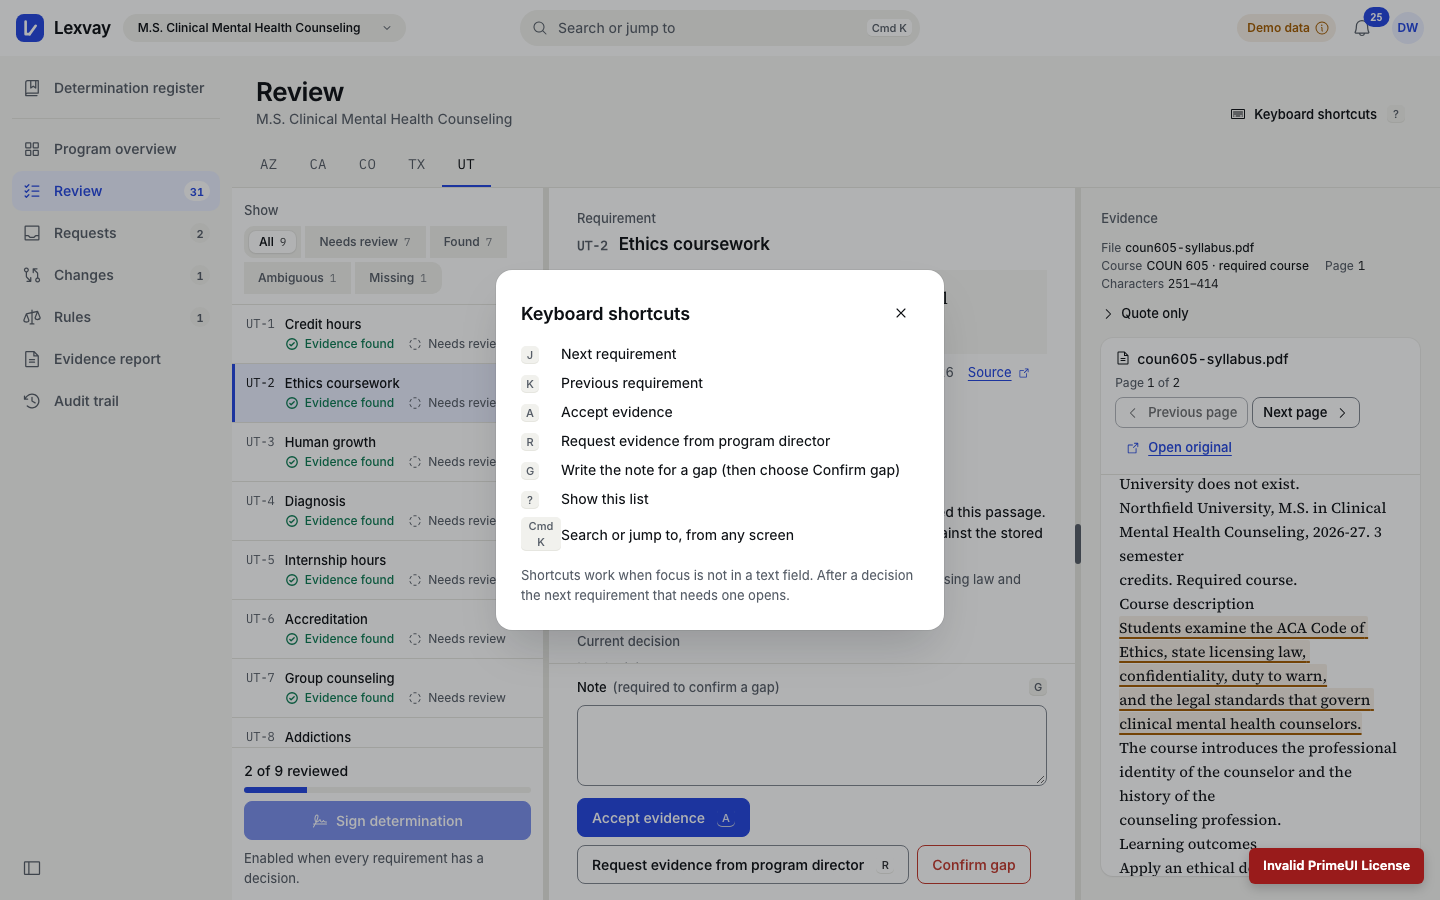
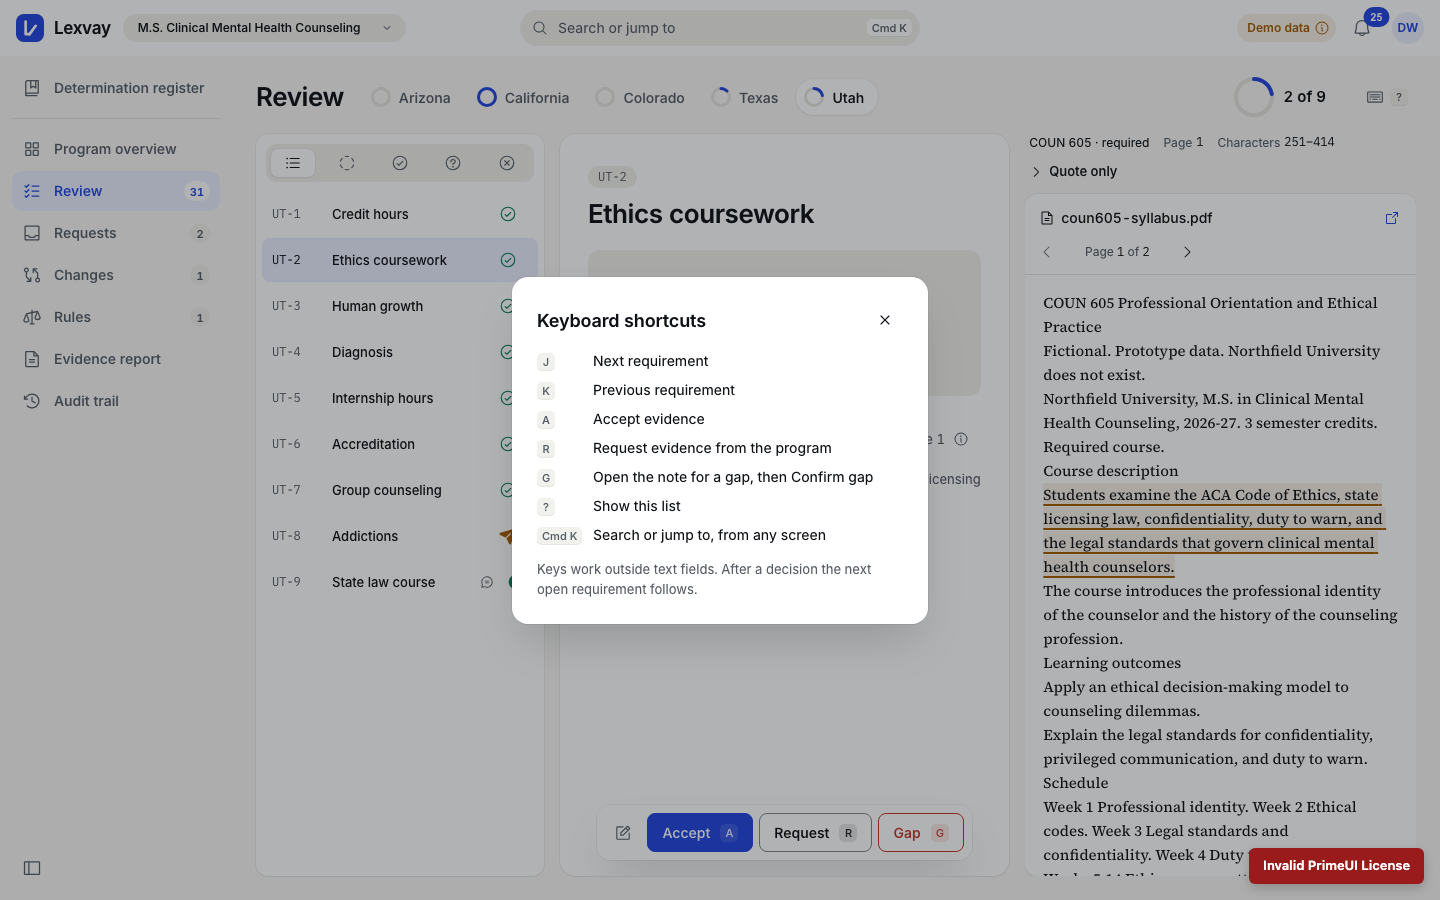
UI2-2 decisions, progress and screenshots; evidence request suite waits for Review before returning to the inbox

diff --git a/frontend/e2e/evidence-requests.spec.ts b/frontend/e2e/evidence-requests.spec.ts
@@ -202,7 +202,10 @@ test('at 400 px: the inbox, the drawer, a blocked request and the provided evide
     const rows = (await response.json()) as { mappingId: string; stale: boolean }[];
     await route.fulfill({ response, json: rows.map((r) => (r.mappingId === ambiguous.id ? { ...r, stale: true } : r)) });
   });
+  // Leave the inbox and come back, so it reads the rows again. Wait for Review to be on screen first: a click during
+  // the route's view transition supersedes the first navigation, the inbox never leaves and never reads again.
   await nav(page, 'Review').click();
+  await expect(page.getByTestId('requirement-heading')).toBeVisible();
   await nav(page, 'Evidence requests').click();
   await expect(row).toContainText('Blocked');
   await expect(row).toContainText('This requirement is waiting for a re-run after a change; answer it after the re-run');

diff --git a/docs/decisions/UI2-2.md b/docs/decisions/UI2-2.md
@@ -1,0 +1,93 @@
+# UI2-2 — Review and signing in design v2 (D-330 to D-339)
+
+**D-330 — Review is split into parts, each with its own styles.** The screen (`review.ts`) keeps the state, the data and
+the keys; `RequirementList` (the 288 px rail), `RequirementCard` (the hero), `EvidencePane` (the DocumentViewer and the
+provided passages) and `SignDialog` live beside it in `screens/review/`, and `DecisionBar` is a shared component in
+`ui/decision-bar/` as DESIGN.md lists it. One component with every pane's styles would cross the 10 kB component style
+budget (D-083); each part now stays well under it. The parts have no `viewProviders`, so `REVIEW_ICONS` names their
+icons; `DecisionBar` registers its own (`DECISION_BAR_ICONS`, a unit in `icons.spec.ts`) and its Textarea and Message
+token sets. Splitter and ProgressBar are no longer rendered by Review and left `REVIEW_TOKENS`. Rejected: keeping the
+Splitter between the centre and the evidence (its gutter is the hairline v2 removes, and the rail is a fixed 288 px).
+
+**D-331 — Header: pills as tabs, the active pill as the shared element.** The states stay a PrimeNG `Tabs` list (arrow,
+Home and End keys, `selectOnFocus`), restyled as pills: a 20 px ProgressRing (decided of total, from the assessment's
+per-state summary, `stateProgress`) and the full name. The tab's accessible name is the full name ("California"); its
+ring is hidden from assistive technology and its numbers are the tab's description ("6 of 8 reviewed") through
+`aria-describedby` on hidden text outside the tab, so the name stays the name. The active pill carries
+`view-transition-name: state-<code>`, the target UI2-1's map tile morphs into. The header progress is a 40 px ring
+(hidden) beside "6 of 8" with " reviewed" for screen readers. The pills scroll sideways when they do not fit
+(PrimeNG's scrollable list without navigator buttons). The page title stays "Review": the shell focuses `main h1` after
+navigation, and the program name left the header (the top bar's pill shows it).
+
+**D-332 — "Sign <state>" exists only once every requirement is decided.** Before that the header shows progress and
+nothing to sign (v1 showed a disabled button with a help line). The button enters with one pulse (scale and opacity,
+720 ms, `animate.enter`), then stays still. A reviewer who is not a signer sees it disabled with an InfoTip "Only a
+signer can sign." A signed state shows its Seal (40 px, named in one sentence) with "Signed" and the outcome; a reopened
+determination shows a "Reopened" chip with an InfoTip. Under 640 px the action takes its own row under the pills.
+
+**D-333 — The DecisionBar and the note.** Accept (A), Request (R) and Gap (G) on the raised, blurred bar, sticky at the
+foot of the centre pane (under 1024 px it is the last item of the one-column layout, so it stays at the foot of the
+window while the list, the requirement or the evidence is in view). Visible words follow the spec; the accessible names
+of Accept and Request stay full ("Accept evidence", "Request evidence") and contain the visible word. Gap, its key and a
+note button open the note field in place; with the note open the third action reads "Confirm gap", and Accept and
+Request send the note too. The note button ("Add note") exists because a request's note is what the program reads (F4)
+and an accept after provided evidence asks which evidence was relied on (D-267): the spec opens the field only for
+Gap, which would have left requests without a note. Where a person answered an evidence request the note opens by
+itself. Escape in an empty note closes it and returns focus to Gap; a note with words stays open. A gap without a note
+opens the field and says why, as before. Under 640 px the key hints are hidden (a phone has no keys) and the actions
+keep one row.
+
+**D-334 — The decision sequence, never in the way.** After the server records a decision: the decided row's StatusIcon
+turns filled and pops in on the spring, an ink ring draws around it in its status colour (stroke-dashoffset, 240 ms)
+and fades, the row settles (520 ms, `--lx-spring`), the next requirement's card slides in 16 px from the right (from
+the left when the selection moved up the list: `ReviewWorkspace.travel`), and both rings advance by their stroke
+transitions. Only transform, opacity and stroke-dashoffset move. The card is keyed by mapping (`@for` over the
+selection) and enters with `animate.enter`; it starts at 20 % opacity rather than 0 so it is never invisible. Nothing
+waits for motion: the bar is outside the keyed card and keeps focus, keys act during the entrance (the e2e test presses
+K and J while the card slides in), and the global reduced-motion rule removes every animation (the e2e test runs the
+whole California review under reduced motion and asserts that no animation is running after each decision).
+
+**D-335 — The signing dialog and the stamp.** "Sign California": a subtitle "8 of 8 decided" with an InfoTip holding the
+explanation that used to be a paragraph, the three outcomes as large cards (each a label around a PrimeNG RadioButton,
+in a fieldset, with its own icon and colour, the chosen one ringed in the accent), and a preview of the Seal with the
+signer's initials and today's date, faint and hidden from assistive technology (nothing is signed until the server says
+so). Nothing is preselected. After the server signs, the dialog shows the recorded determination's Seal stamping down
+(scale 1.12 to 1, -8 degrees to 0, `--lx-spring`, 420 ms, one ink ring fading over 600 ms), the outcome in words, who
+and when, and Done, which takes the focus; the header behind it already shows the seal. `Seal` gained a `stamp` input
+for this (the stamp is on the host, as D-315 foresaw). Rejected: closing the dialog at once (the moment would happen
+off screen) and closing it on a timer (motion must not decide when the person moves on).
+
+**D-336 — `softWrap`, display only.** `softWrap(text)` in `page-text.ts`: a newline becomes a space when the next
+character is a lower-case letter (`\p{Ll}`), a digit (`\p{Nd}`) or "(" and the previous one is not ".", "!" or "?".
+One refinement of the spec: a newline after another newline also stays, so a blank line between paragraphs is never
+turned into a line break plus a space (a blank line is a paragraph, not a wrap). The viewer renders `softWrap(page.text)`
+and cuts the mark out of that, at the stored offsets; selection offsets are measured on the shown text and the quote is
+still sliced from the stored text, so a passage chosen across a joined line break carries the stored newline. Vitest
+proves equal length, that only joined newlines differ, and that a DOM selection over the shown text with the mark maps
+back to the stored text exactly; the viewer e2e test compares the page with `softWrap` of the stored page and selects
+across a joined break on the harness. The "Quote only" disclosure still shows the stored quote as is.
+
+**D-337 — Hero card and evidence pane, in few words.** The hero: ref chip (mono), title at Title size, rule text in the
+Document type in a `surface-2` inset with its rule version, date and source link, the finding as a large tinted chip,
+how it was checked in one line (`checkMethod`: "Rules engine: Internship hours >= 600", "Quote verified on page 1",
+"No passage found"; the explanation behind an InfoTip "How it was checked"), the model's rationale in three lines with
+"Show all" (`lxClamp`), and the current decision with who and when and its note. The evidence pane drops its "Evidence"
+label (screen-reader heading only) and the "File" entry in the three-pane layout (the viewer names the file), and its
+"No quoted evidence" reason moved to the hero's method line. The DocumentViewer header became an icon pager (Previous
+page, "Page 1 of 2", Next page) and an icon link "Open original", all with their words as accessible names and
+tooltips; the names are unchanged, so Rules and the evidence drawer keep working as before.
+
+**D-338 — Filter as a segmented icon control.** Five icons (list, dashed circle, and the three finding icons the
+StatusIcon uses before review, which a unit test pins). Each segment's name and tooltip put the count first ("7 to
+review", "1 ambiguous", "9 requirements"): SelectButton gives the option label to its toggle as `aria-label`, so the
+count reaches assistive technology without a second text. The list keeps the selected row in view by scrolling the
+list itself, never the page (under 1024 px the page scrolls, and a decision there must not jump it to the list).
+
+**D-339 — End-to-end changes.** Names that changed: the state tabs (full names; `stateTab(page, code)` and `STATE` in
+`support.ts`), "Request evidence", "Gap" then "Confirm gap", "Sign California", the dialogs "Sign California" and
+"Signed", the filter segments, `getByLabel('Note', { exact: true })` (the note button's name contains "note"). Flows
+that changed with the design: a request with a note opens the note first ("Add note"); "Sign <state>" is absent until
+everything is decided. New checks: reduced motion with no running animation after each decision, keys during the
+entrance, Escape in the note, the bar staying in view at 400 px, the pill descriptions, the seal preview hidden from
+assistive technology, the stamped seal and Done's focus, axe on Review at 1440 and 400 px, the gap note, the signing
+dialog at 1440 and 400 px with and without an outcome, and the signed seal, each in both themes.

diff --git a/docs/progress/UI2-2.md b/docs/progress/UI2-2.md
@@ -1,0 +1,63 @@
+# UI2-2 — Review and signing in design v2 (progress)
+
+Branch `ui2-review`, end-to-end slot 1. Decisions D-330 to D-339 in `docs/decisions/UI2-2.md`.
+
+### What changed
+- **Header**: the states as pills with full names and 20 px rings (decided of total; the numbers are each tab's
+  accessible description), the active pill named `state-<code>` for the overview's shared-element morph, a 40 px ring
+  with "6 of 8", "Sign <state>" once every requirement is decided (one pulse, then still), the Seal and outcome once
+  signed, a Reopened chip, the keyboard button. Under 640 px the signing action has its own row.
+- **List rail** (288 px, `RequirementList`): a segmented icon filter whose segment names and tooltips carry the counts
+  ("7 to review"), rows of ref, title and one StatusIcon, the "evidence provided" marker, the selected row kept in view
+  inside the list only.
+- **Requirement hero** (`RequirementCard`): ref chip, title at Title size, rule text in the Document type in a quiet
+  inset with its version and source, the finding as a large chip with the check method in one line and an InfoTip,
+  the model's rationale clamped, the current decision with who, when and its note, the stale warning.
+- **DecisionBar** (`ui/decision-bar/`): Accept (A), Request (R), Gap (G) on the raised, blurred bar floating at the foot
+  of the centre pane; Gap, G or the note button open the note in place and the third action becomes Confirm gap;
+  Escape closes an empty note. The note opens by itself where a person answered an evidence request.
+- **Decision motion**: the row's ring draws around its new filled icon, the row settles on the spring, the next
+  requirement slides in from the side it comes from, the rings advance. Nothing waits for motion; reduced motion
+  removes it.
+- **Signing** (`SignDialog`): "Sign California", "8 of 8 decided" with an InfoTip, three outcome cards, a faint Seal
+  preview hidden from assistive technology; after the server signs, the recorded Seal stamps down with one ink ring,
+  then Done (focused). `Seal` has a `stamp` input.
+- **DocumentViewer**: `softWrap(text)` shows sentence-wrapping line breaks as spaces, one character for one, so the
+  mark, selections and stored offsets are unchanged; the header is an icon pager with the same accessible names.
+- **Evidence pane** (`EvidencePane`): the viewer on the right, a compact meta line, "Quote only", F4's provided
+  passages, "Show on page" under 1024 px.
+- Every keyboard shortcut (J, K, A, R, G, ?) and the polite live region (`data-testid="message"`) are kept; the live
+  region is visually hidden (the toast and the motion show the result).
+
+### Tests
+- Vitest: `softWrap` (joins, kept breaks, non-ASCII lower case, equal length with only joined newlines differing, a DOM
+  selection over the shown text with the mark mapping back to the stored text exactly); `review-workspace.spec.ts`
+  (filter labels, filter icons equal to the StatusIcon's, travel direction by J, K, click and after a decision, header
+  and pill progress, `checkMethod`); `icons.spec.ts` (a unit for the DecisionBar).
+- End to end: the California review under reduced motion with no running animation after each decision, the gap note,
+  a request with a note, signing through the outcome cards with the preview hidden and the stamped seal named, keys
+  during the card's entrance, G and Escape in the note, the bar in view at 400 px, the pill descriptions, axe in both
+  themes on Review at 1440 and 400 px, the gap note, the signing dialog at 1440 and 400 px with and without an outcome,
+  the signed seal. The viewer suite compares the page with `softWrap` of the stored page and selects across a joined
+  break. `evidence-requests.spec.ts` waits for Review before returning to the inbox (a click during the route's view
+  transition superseded the first navigation, seen once in a full run).
+
+### Bundle
+Initial 609.25 kB raw, 156.79 kB estimated transfer (budget 680 kB warning). Review's chunk is 67.47 kB raw.
+
+### Screenshots (`docs/screens/`, light and dark)
+`ui2-2-review-{1440,400}`, `ui2-2-decided-{1440,400}`, `ui2-2-gap-note-{1440,400}`, `ui2-2-ready-to-sign-{1440,400}`,
+`ui2-2-signing-{1440,400}`, `ui2-2-signed-1440`; the existing `review-*` and `evidence-request-drawer` captures
+regenerated.
+
+### Test tails (2026-11-27, after merging origin/main)
+`LEXVAY_E2E_SLOT=1 make test` (backend and frontend unit green; its end-to-end stage failed once in
+`evidence-requests.spec.ts`, the navigation race fixed above), then `LEXVAY_E2E_SLOT=1 make e2e`:
+```
+[INFO] Tests run: 1044, Failures: 0, Errors: 0, Skipped: 0
+[INFO] BUILD SUCCESS
+ Test Files  25 passed (25)
+      Tests  277 passed (277)
+  26 passed (3.5m)
+```
+`LEXVAY_SCREENSHOTS=1`, slot 1 (the suite plus the three screenshot tests): `29 passed (4.2m)`.
